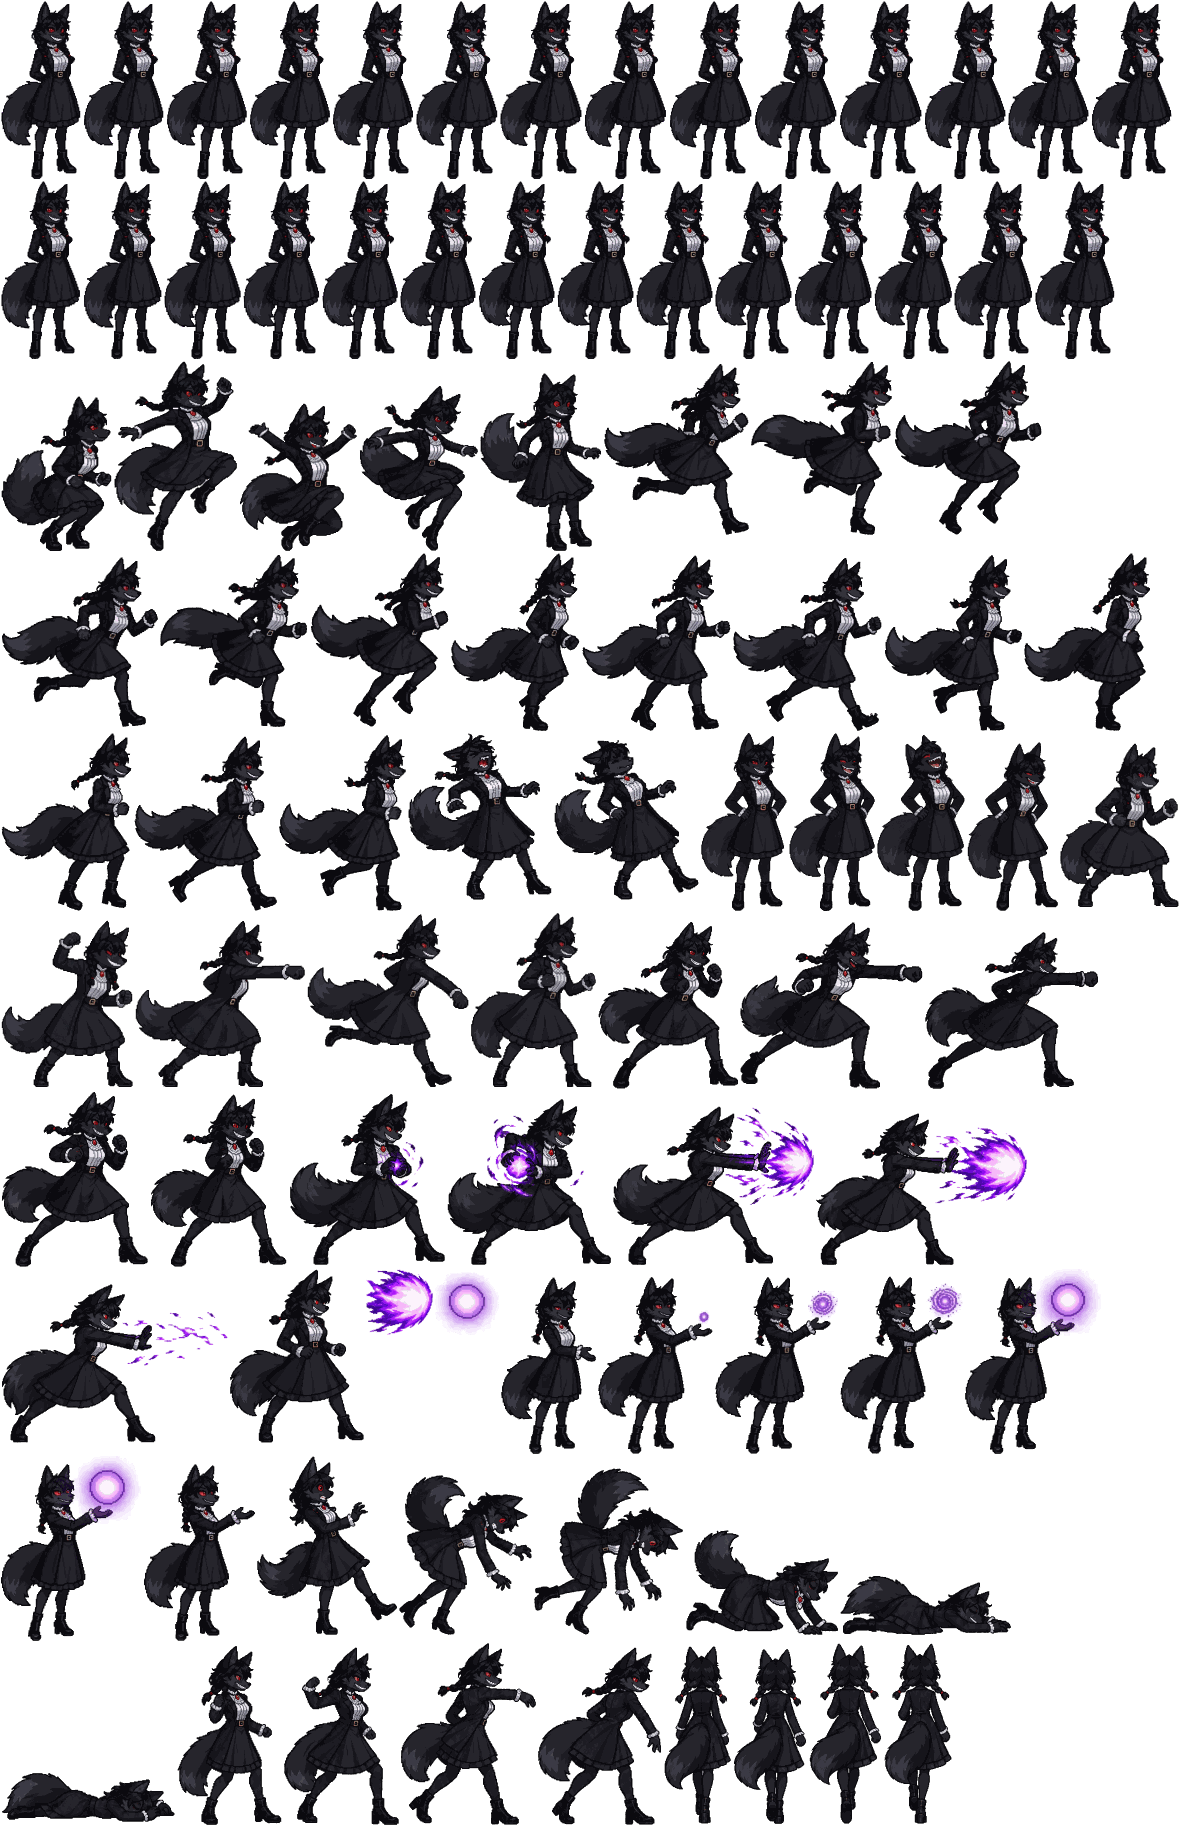
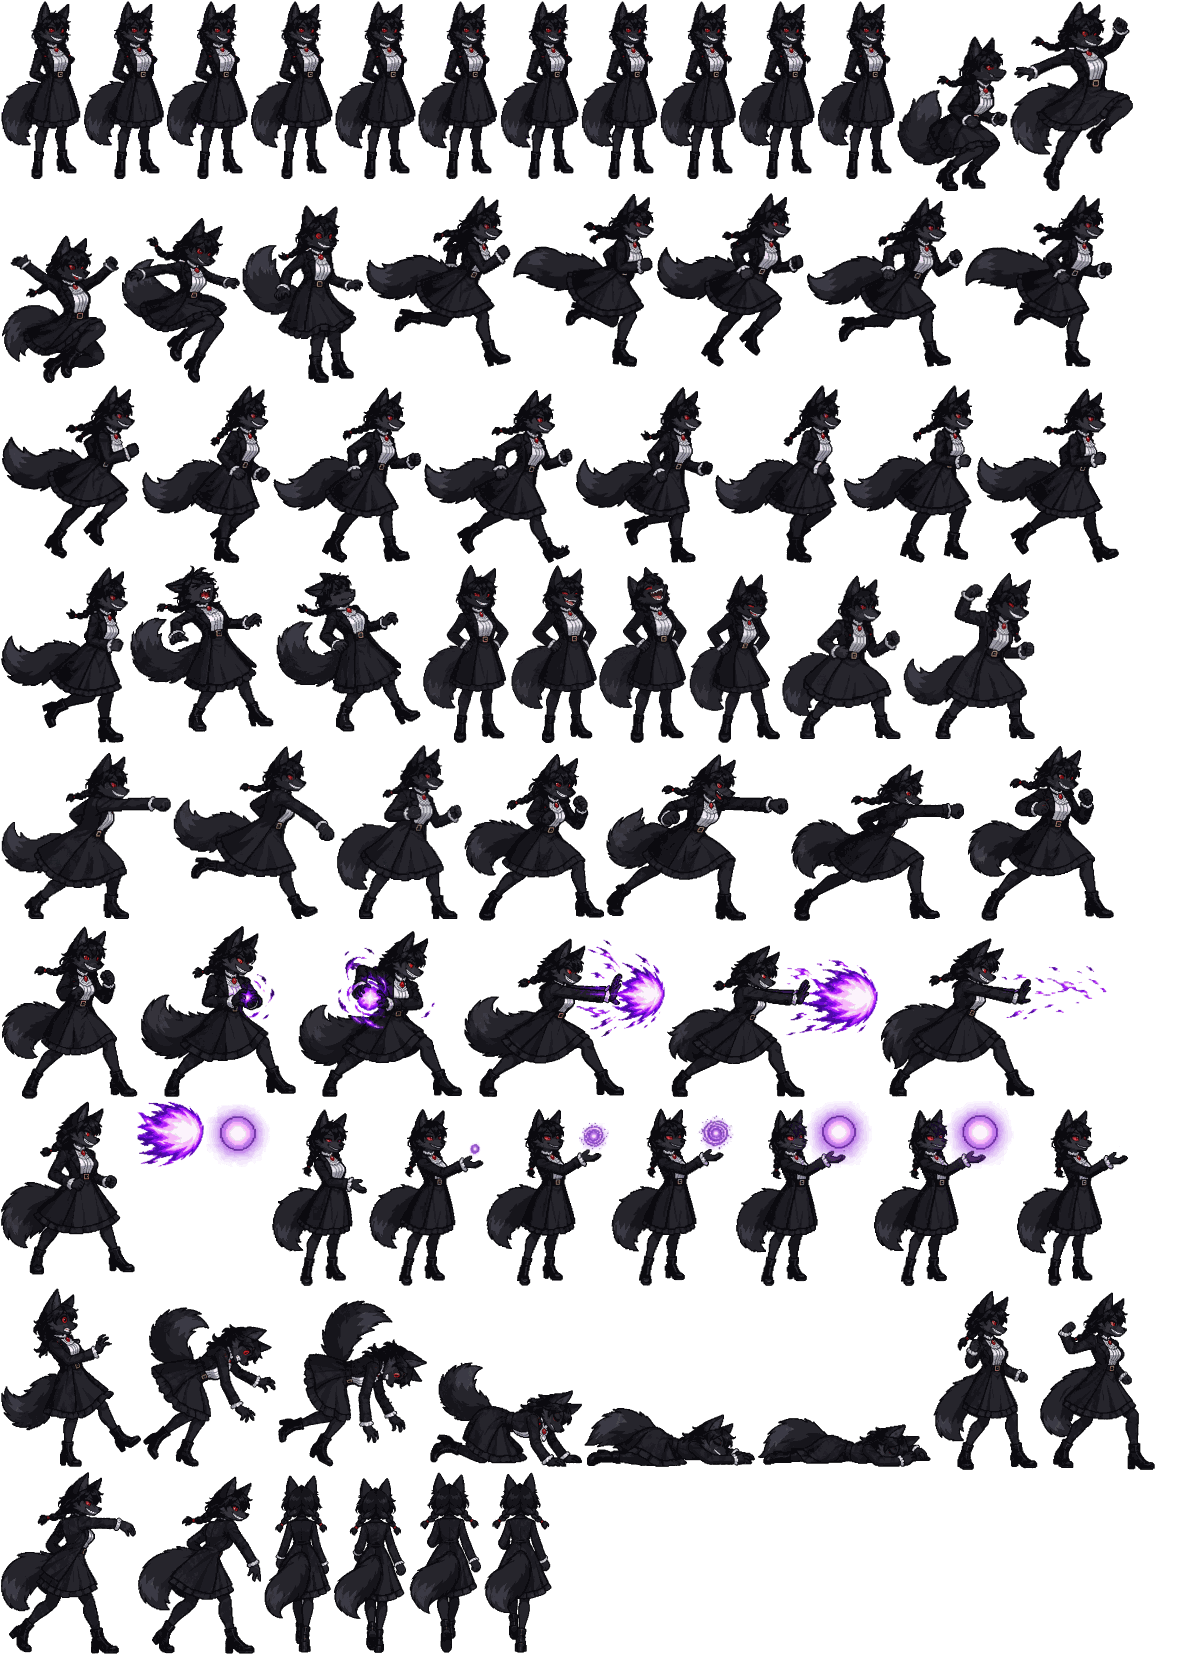
Idle: 11 poses instead of 28
idle_from_video.py takes an optional number of poses: that many video frames spread evenly
over the loop (each then held 4-5/24 s). The idle row is rebuilt with 11 (the tail mended,
the feet still within 0.08 px); the sheet is no wider than it needs to be.

Claude-Session: https://claude.ai/code/session_01QGxdLhKA2G8rMSxu9wSSuC

diff --git a/src/atlas-frames.js b/src/atlas-frames.js
@@ -4,121 +4,104 @@ export const FR = {
   idle: [
     [1, 1, 80, 178, 53.0, 178.0],
     [83, 1, 81, 178, 54.0, 178.0],
-    [166, 1, 81, 178, 54.0, 178.0],
-    [249, 1, 81, 178, 54.0, 178.0],
-    [332, 1, 82, 178, 54.0, 178.0],
-    [416, 1, 82, 178, 54.0, 178.0],
-    [500, 1, 82, 178, 54.0, 178.0],
-    [584, 1, 83, 178, 54.0, 178.0],
-    [669, 1, 83, 178, 54.0, 178.0],
-    [754, 1, 83, 178, 54.0, 178.0],
-    [839, 1, 83, 178, 54.0, 178.0],
-    [924, 1, 82, 178, 53.0, 178.0],
-    [1008, 1, 81, 178, 52.0, 178.0],
-    [1091, 1, 81, 178, 52.0, 178.0],
-    [1, 181, 80, 178, 51.0, 178.0],
-    [83, 181, 79, 178, 51.0, 178.0],
-    [164, 181, 77, 178, 50.0, 178.0],
-    [243, 181, 77, 178, 50.0, 178.0],
-    [322, 181, 76, 178, 50.0, 178.0],
-    [400, 181, 76, 178, 50.0, 178.0],
-    [478, 181, 77, 178, 51.0, 178.0],
-    [557, 181, 77, 178, 51.0, 178.0],
-    [636, 181, 77, 178, 51.0, 178.0],
-    [715, 181, 77, 178, 51.0, 178.0],
-    [794, 181, 78, 178, 52.0, 178.0],
-    [874, 181, 78, 178, 52.0, 178.0],
-    [954, 181, 79, 178, 52.0, 178.0],
-    [1035, 181, 80, 178, 53.0, 178.0],
+    [166, 1, 82, 178, 54.0, 178.0],
+    [250, 1, 83, 178, 54.0, 178.0],
+    [335, 1, 81, 178, 52.0, 178.0],
+    [418, 1, 80, 178, 51.0, 178.0],
+    [500, 1, 79, 178, 51.0, 178.0],
+    [581, 1, 77, 178, 50.0, 178.0],
+    [660, 1, 76, 178, 50.0, 178.0],
+    [738, 1, 77, 178, 51.0, 178.0],
+    [817, 1, 78, 178, 52.0, 178.0],
   ],
   jump: [
-    [1, 361, 111, 190, 76.0, 190.0],
-    [114, 361, 123, 190, 67.0, 190.0],
-    [239, 361, 118, 190, 58.0, 218.0],
-    [359, 361, 119, 190, 67.0, 190.0],
-    [480, 361, 122, 190, 67.0, 190.0],
+    [897, 1, 111, 190, 76.0, 190.0],
+    [1010, 1, 123, 190, 67.0, 190.0],
+    [1, 193, 118, 190, 58.0, 218.0],
+    [121, 193, 119, 190, 67.0, 190.0],
+    [242, 193, 122, 190, 67.0, 190.0],
   ],
   run: [
-    [604, 361, 145, 174, 106.0, 174.0],
-    [751, 361, 141, 174, 109.0, 174.0],
-    [894, 361, 148, 174, 105.0, 174.0],
-    [1, 553, 157, 174, 110.0, 174.0],
-    [160, 553, 148, 174, 107.0, 174.0],
-    [310, 553, 139, 174, 104.0, 174.0],
+    [366, 193, 145, 174, 106.0, 174.0],
+    [513, 193, 141, 174, 109.0, 174.0],
+    [656, 193, 148, 174, 105.0, 174.0],
+    [806, 193, 157, 174, 110.0, 174.0],
+    [965, 193, 148, 174, 107.0, 174.0],
+    [1, 385, 139, 174, 104.0, 174.0],
   ],
   walk: [
-    [451, 553, 129, 178, 97.0, 178.0],
-    [582, 553, 149, 178, 103.0, 178.0],
-    [733, 553, 149, 178, 102.0, 178.0],
-    [884, 553, 138, 178, 98.0, 178.0],
-    [1024, 553, 126, 178, 97.0, 178.0],
-    [1, 733, 131, 178, 101.0, 178.0],
-    [134, 733, 143, 178, 101.0, 178.0],
-    [279, 733, 127, 178, 98.0, 178.0],
+    [142, 385, 129, 178, 97.0, 178.0],
+    [273, 385, 149, 178, 103.0, 178.0],
+    [424, 385, 149, 178, 102.0, 178.0],
+    [575, 385, 138, 178, 98.0, 178.0],
+    [715, 385, 126, 178, 97.0, 178.0],
+    [843, 385, 131, 178, 101.0, 178.0],
+    [976, 385, 143, 178, 101.0, 178.0],
+    [1, 565, 127, 178, 98.0, 178.0],
   ],
   hurt: [
-    [408, 733, 144, 167, 101.0, 167.0],
-    [554, 733, 145, 167, 102.0, 167.0],
+    [130, 565, 144, 167, 101.0, 167.0],
+    [276, 565, 145, 167, 102.0, 167.0],
   ],
   laugh: [
-    [701, 733, 86, 178, 56.0, 178.0],
-    [789, 733, 86, 178, 56.0, 178.0],
-    [877, 733, 88, 178, 58.0, 178.0],
-    [967, 733, 91, 178, 60.0, 178.0],
+    [423, 565, 86, 178, 56.0, 178.0],
+    [511, 565, 86, 178, 56.0, 178.0],
+    [599, 565, 88, 178, 58.0, 178.0],
+    [689, 565, 91, 178, 60.0, 178.0],
   ],
   punch1: [
-    [1060, 733, 119, 174, 73.0, 174.0],
-    [1, 913, 132, 174, 97.0, 174.0],
-    [135, 913, 170, 174, 93.0, 174.0],
-    [307, 913, 162, 174, 99.0, 174.0],
-    [471, 913, 125, 174, 71.0, 174.0],
+    [782, 565, 119, 174, 73.0, 174.0],
+    [903, 565, 132, 174, 97.0, 174.0],
+    [1, 745, 170, 174, 93.0, 174.0],
+    [173, 745, 162, 174, 99.0, 174.0],
+    [337, 745, 125, 174, 71.0, 174.0],
   ],
   punch2: [
-    [598, 913, 140, 176, 86.0, 176.0],
-    [740, 913, 183, 176, 86.0, 176.0],
-    [925, 913, 174, 176, 97.0, 176.0],
-    [1, 1091, 147, 176, 86.0, 176.0],
-    [150, 1091, 137, 176, 77.0, 176.0],
+    [464, 745, 140, 176, 86.0, 176.0],
+    [606, 745, 183, 176, 86.0, 176.0],
+    [791, 745, 174, 176, 97.0, 176.0],
+    [967, 745, 147, 176, 86.0, 176.0],
+    [1, 923, 137, 176, 77.0, 176.0],
   ],
   hado: [
-    [289, 1091, 156, 174, 90.0, 174.0],
-    [447, 1091, 164, 174, 94.0, 174.0],
-    [613, 1091, 201, 174, 88.0, 174.0],
-    [816, 1091, 211, 174, 71.0, 174.0],
-    [1, 1269, 227, 174, 82.0, 174.0],
-    [230, 1269, 134, 174, 81.0, 174.0],
+    [140, 923, 156, 174, 90.0, 174.0],
+    [298, 923, 164, 174, 94.0, 174.0],
+    [464, 923, 201, 174, 88.0, 174.0],
+    [667, 923, 211, 174, 71.0, 174.0],
+    [880, 923, 227, 174, 82.0, 174.0],
+    [1, 1101, 134, 174, 81.0, 174.0],
   ],
   fx: [
-    [366, 1269, 67, 66, 34.0, 33.0],
-    [435, 1269, 64, 66, 32.0, 33.0],
+    [137, 1101, 67, 66, 34.0, 33.0],
+    [206, 1101, 64, 66, 32.0, 33.0],
   ],
   orb: [
-    [501, 1269, 95, 185, 51.0, 185.0],
-    [598, 1269, 115, 185, 53.0, 185.0],
-    [715, 1269, 123, 185, 54.0, 185.0],
-    [840, 1269, 123, 185, 51.0, 185.0],
-    [965, 1269, 136, 185, 48.0, 185.0],
-    [1, 1456, 140, 185, 50.0, 185.0],
-    [143, 1456, 112, 185, 54.0, 185.0],
+    [272, 1101, 95, 185, 51.0, 185.0],
+    [369, 1101, 115, 185, 53.0, 185.0],
+    [486, 1101, 123, 185, 54.0, 185.0],
+    [611, 1101, 123, 185, 51.0, 185.0],
+    [736, 1101, 136, 185, 48.0, 185.0],
+    [874, 1101, 140, 185, 50.0, 185.0],
+    [1016, 1101, 112, 185, 54.0, 185.0],
   ],
   ko: [
-    [257, 1456, 140, 179, 92.0, 179.0],
-    [399, 1456, 133, 179, 30.0, 179.0],
-    [534, 1456, 150, 179, 43.0, 179.0],
-    [686, 1456, 152, 179, 76.0, 179.0],
-    [840, 1456, 171, 179, 87.0, 179.0],
-    [1, 1643, 174, 179, 87.0, 179.0],
+    [1, 1288, 140, 179, 92.0, 179.0],
+    [143, 1288, 133, 179, 30.0, 179.0],
+    [278, 1288, 150, 179, 43.0, 179.0],
+    [430, 1288, 152, 179, 76.0, 179.0],
+    [584, 1288, 171, 179, 87.0, 179.0],
+    [757, 1288, 174, 179, 87.0, 179.0],
   ],
   throw: [
-    [177, 1643, 105, 182, 64.0, 182.0],
-    [284, 1643, 115, 182, 64.0, 182.0],
-    [401, 1643, 135, 182, 63.0, 182.0],
-    [538, 1643, 124, 182, 65.0, 182.0],
+    [933, 1288, 105, 182, 64.0, 182.0],
+    [1040, 1288, 115, 182, 64.0, 182.0],
+    [1, 1472, 135, 182, 63.0, 182.0],
+    [138, 1472, 124, 182, 65.0, 182.0],
   ],
   back: [
-    [664, 1643, 67, 181, 39.0, 181.0],
-    [733, 1643, 74, 181, 42.0, 181.0],
-    [809, 1643, 73, 181, 39.0, 181.0],
-    [884, 1643, 68, 181, 34.0, 181.0],
+    [264, 1472, 67, 181, 39.0, 181.0],
+    [333, 1472, 74, 181, 42.0, 181.0],
+    [409, 1472, 73, 181, 39.0, 181.0],
+    [484, 1472, 68, 181, 34.0, 181.0],
   ],
 };

diff --git a/src/config.js b/src/config.js
@@ -545,11 +545,9 @@ export const WAVEGEN = {
 
 // Seconds per frame of the sprint: 15% slower than the old 0.065 so the feet match the speed.
 export const RUN_FRAME = 0.065 / 0.85;
-// The idle loop (breathing, the tail swaying), as in the video it was taken from: 28 poses,
-// each held for this many 1/24 s (2.25 s in all).
-export const IDLE_HOLD = [
-  1, 2, 1, 2, 1, 1, 3, 3, 1, 2, 1, 1, 3, 1, 3, 4, 4, 4, 3, 1, 3, 1, 1, 2, 1, 1, 2, 1,
-];
+// The idle loop (breathing, the tail swaying) from the video it was taken from: 11 poses spread
+// evenly over its 2.25 s, each held for this many 1/24 s.
+export const IDLE_HOLD = [5, 5, 5, 5, 5, 4, 5, 5, 5, 5, 5];
 // Player animation timelines: seconds per frame of each attack.
 export const D = {
   atk1: [0.03, 0.05, 0.09, 0.06, 0.05],

diff --git a/tools/idle_from_video.py b/tools/idle_from_video.py
@@ -1,13 +1,13 @@
 #!/usr/bin/env python3
 """Makes the idle row of the character sheet from a video of the idle loop.
 
-    python3 tools/idle_from_video.py assets/source/idle.mp4 60 114
+    python3 tools/idle_from_video.py assets/source/idle.mp4 60 114 [POSES]
 
 FIRST..LAST (video frames from 0, LAST not included) must be one loop: LAST looks like FIRST.
 The video is the one the idle was drawn from: the standing figure in the left 420 px, on a
 grey checkerboard. The script cuts the checkerboard away (from the edges inwards, so the
 white shirt stays), puts back the tail's tip where the video's edge cuts it off, lines every frame up on the boots, scales the figure to the sheet's 356 px,
-keeps each different pose once and prints how long each is held (IDLE_HOLD in config.js);
+keeps each different pose once (or POSES of them, evenly spread) and prints how long each is held (IDLE_HOLD in config.js);
 then it puts the poses into the first row of assets/source/character_sheet.png.
 Needs ffmpeg, pillow and numpy; run 
 > raithwyn-bone-road@0.3.0 atlas
@@ -22,6 +22,7 @@ from collections import deque
 
 ROOT = Path(__file__).resolve().parent.parent
 VIDEO, A, B = sys.argv[1], int(sys.argv[2]), int(sys.argv[3])
+POSES = int(sys.argv[4]) if len(sys.argv) > 4 else 0   # 0: every different pose
 TMP = tempfile.mkdtemp()
 subprocess.run(["ffmpeg", "-v", "error", "-i", VIDEO, f"{TMP}/f%03d.png"], check=True)
 def flood(mask, seeds):
@@ -113,6 +114,12 @@ for k in range(1,len(frames)):
     if np.abs(frames[k][2]-frames[k-1][2]).mean()>0.3: uniq.append(k); hold.append(1)
     else: hold[-1]+=1
 print('unique',len(uniq),'holds',hold, 'total', sum(hold))
+# or just POSES of them, evenly spread over the loop (each then held about as long)
+if POSES:
+    n = len(frames)
+    uniq = [round(k * n / POSES) for k in range(POSES)]
+    hold = [b - a for a, b in zip(uniq, uniq[1:] + [n])]
+    print('poses', uniq, 'holds', hold)
 out=[]
 for k in uniq:
     im,al,_=frames[k]; dx,dy=shifts[k]
@@ -132,7 +139,9 @@ W0, H0 = sheet.size
 a = np.array(out[0])[..., 3] > 10
 bot = np.where(a.any(1))[0].max() + 1
 cell = out[0].width + 16
-new = Image.new("RGBA", (max(W0, 16 + cell * len(out)), H0))
+rest = np.array(sheet)[373:, :, 3] > 10                # the rows below: how wide they need it
+W = max(np.where(rest.any(0))[0].max() + 17, 16 + cell * len(out))
+new = Image.new("RGBA", (W, H0))
 new.paste(sheet.crop((0, 373, W0, H0)), (0, 373))
 for n, f in enumerate(out):
     new.alpha_composite(f, (16 + n * cell, 372 - bot))

diff --git a/README.md b/README.md
@@ -493,9 +493,11 @@ npm run atlas
 ```
 
 Ряды листа сверху вниз перечислены в `ROW_NAMES` в `tools/build_atlas.py`.
-Стойка (idle) — первый ряд листа: 28 поз дыхания и покачивания хвоста, сделанных из видео
+Стойка (idle) — первый ряд листа: 11 поз дыхания и покачивания хвоста, взятых из видео
 `assets/source/idle.mp4` (цикл — кадры 60–113, 2,25 с). Ряд собирает
-`python3 tools/idle_from_video.py assets/source/idle.mp4 60 114`: убирает фон-шахматку,
+`python3 tools/idle_from_video.py assets/source/idle.mp4 60 114 11` (11 — сколько поз взять,
+равномерно по циклу; без числа — все 28 разных): убирает фон-шахматку, дорисовывает обрезанный
+краем видео кончик хвоста,
 выравнивает кадры по ботинкам, уменьшает до размера листа и печатает, сколько держится каждая
 поза — это `IDLE_HOLD` в `src/config.js` (в 1/24 с, как в видео). По стойке выравниваются удары.
 
